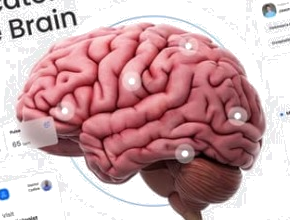
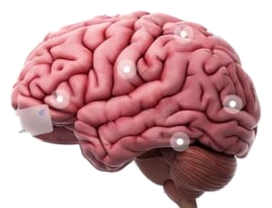
feat: isolate pure 3D organ visuals for brain, heart, lungs, and GI without surrounding cards

diff --git a/frontend/src/components/AnatomyMap.tsx b/frontend/src/components/AnatomyMap.tsx
@@ -28,32 +28,32 @@ const BODY_HOTSPOTS = [
 ];
 
 const REAL_BRAIN_HOTSPOTS: OrganHotspot[] = [
-  { id: "throbbing_headache", name: "Throbbing Headache", topPercent: 32, leftPercent: 44, regionId: "neuro", anatomicalLabel: "Frontal / Parietal Cortex" },
-  { id: "visual_aura_photophobia", name: "Visual Aura & Photophobia", topPercent: 42, leftPercent: 72, regionId: "neuro", anatomicalLabel: "Occipital Visual Lobe" },
-  { id: "dizziness_vertigo", name: "Dizziness & Vertigo", topPercent: 74, leftPercent: 62, regionId: "neuro", anatomicalLabel: "Cerebellum & Vestibular" },
-  { id: "blurred_vision", name: "Blurred Vision", topPercent: 48, leftPercent: 28, regionId: "neuro", anatomicalLabel: "Optic Nerve Pathways" },
-  { id: "insomnia", name: "Insomnia & Neural Fog", topPercent: 55, leftPercent: 52, regionId: "neuro", anatomicalLabel: "Temporal Subcortex" },
+  { id: "throbbing_headache", name: "Throbbing Headache", topPercent: 28, leftPercent: 45, regionId: "neuro", anatomicalLabel: "Frontal / Parietal Cortex" },
+  { id: "visual_aura_photophobia", name: "Visual Aura & Photophobia", topPercent: 40, leftPercent: 78, regionId: "neuro", anatomicalLabel: "Occipital Visual Lobe" },
+  { id: "dizziness_vertigo", name: "Dizziness & Vertigo", topPercent: 76, leftPercent: 68, regionId: "neuro", anatomicalLabel: "Cerebellum & Brainstem" },
+  { id: "blurred_vision", name: "Blurred Vision", topPercent: 52, leftPercent: 24, regionId: "neuro", anatomicalLabel: "Optic Chiasm / Temporal" },
+  { id: "insomnia", name: "Insomnia & Neural Fog", topPercent: 48, leftPercent: 50, regionId: "neuro", anatomicalLabel: "Temporal Subcortex" },
 ];
 
 const REAL_HEART_HOTSPOTS: OrganHotspot[] = [
-  { id: "sharp_chest_pain", name: "Sharp Chest Pain", topPercent: 68, leftPercent: 52, regionId: "cardio_lung", anatomicalLabel: "Myocardial Apex / Ventricle" },
-  { id: "chest_tightness_angina", name: "Chest Tightness / Angina", topPercent: 48, leftPercent: 62, regionId: "cardio_lung", anatomicalLabel: "Coronary Artery Branch" },
-  { id: "palpitations", name: "Palpitations & Arrhythmia", topPercent: 42, leftPercent: 36, regionId: "cardio_lung", anatomicalLabel: "Right Atrium / Sinus Node" },
-  { id: "shortness_of_breath", name: "Breathlessness on Exertion", topPercent: 25, leftPercent: 68, regionId: "cardio_lung", anatomicalLabel: "Ascending Aorta & Arch" },
+  { id: "sharp_chest_pain", name: "Sharp Chest Pain", topPercent: 72, leftPercent: 52, regionId: "cardio_lung", anatomicalLabel: "Myocardial Apex / Ventricle" },
+  { id: "chest_tightness_angina", name: "Chest Tightness / Angina", topPercent: 48, leftPercent: 66, regionId: "cardio_lung", anatomicalLabel: "Coronary Artery Branch" },
+  { id: "palpitations", name: "Palpitations & Arrhythmia", topPercent: 42, leftPercent: 32, regionId: "cardio_lung", anatomicalLabel: "Right Atrium / Sinus Node" },
+  { id: "shortness_of_breath", name: "Breathlessness on Exertion", topPercent: 18, leftPercent: 56, regionId: "cardio_lung", anatomicalLabel: "Ascending Aorta & Arch" },
 ];
 
 const REAL_LUNGS_HOTSPOTS: OrganHotspot[] = [
-  { id: "cough", name: "Persistent Cough / Tracheitis", topPercent: 18, leftPercent: 48, regionId: "cardio_lung", anatomicalLabel: "Trachea & Carina" },
-  { id: "shortness_of_breath", name: "Dyspnea / Air Hunger", topPercent: 46, leftPercent: 32, regionId: "cardio_lung", anatomicalLabel: "Right Pulmonary Lobe" },
-  { id: "sharp_chest_pain", name: "Pleuritic Pain", topPercent: 48, leftPercent: 68, regionId: "cardio_lung", anatomicalLabel: "Left Pleural Cavity" },
-  { id: "chest_tightness_angina", name: "Bronchial Wheezing", topPercent: 72, leftPercent: 38, regionId: "cardio_lung", anatomicalLabel: "Lower Basal Segment" },
+  { id: "cough", name: "Persistent Cough / Tracheitis", topPercent: 15, leftPercent: 49, regionId: "cardio_lung", anatomicalLabel: "Trachea & Carina" },
+  { id: "shortness_of_breath", name: "Dyspnea / Air Hunger", topPercent: 44, leftPercent: 30, regionId: "cardio_lung", anatomicalLabel: "Right Pulmonary Lobe" },
+  { id: "sharp_chest_pain", name: "Pleuritic Pain", topPercent: 46, leftPercent: 70, regionId: "cardio_lung", anatomicalLabel: "Left Pleural Cavity" },
+  { id: "chest_tightness_angina", name: "Bronchial Wheezing", topPercent: 74, leftPercent: 36, regionId: "cardio_lung", anatomicalLabel: "Lower Basal Segment" },
 ];
 
 const REAL_DIGESTIVE_HOTSPOTS: OrganHotspot[] = [
-  { id: "acid_reflux", name: "Acid Reflux / Heartburn", topPercent: 32, leftPercent: 50, regionId: "gi_endo", anatomicalLabel: "Gastroesophageal Junction" },
-  { id: "nausea_vomiting", name: "Nausea & Gastric Stasis", topPercent: 52, leftPercent: 42, regionId: "gi_endo", anatomicalLabel: "Gastric Body" },
-  { id: "excessive_hunger", name: "Polyphagia / Metabolic", topPercent: 54, leftPercent: 60, regionId: "gi_endo", anatomicalLabel: "Pancreatic Region" },
-  { id: "abdominal_pain", name: "Abdominal Pain", topPercent: 75, leftPercent: 50, regionId: "gi_endo", anatomicalLabel: "Intestinal Peristalsis" },
+  { id: "acid_reflux", name: "Acid Reflux / Heartburn", topPercent: 24, leftPercent: 54, regionId: "gi_endo", anatomicalLabel: "Gastroesophageal Junction" },
+  { id: "nausea_vomiting", name: "Nausea & Gastric Stasis", topPercent: 44, leftPercent: 56, regionId: "gi_endo", anatomicalLabel: "Gastric Body" },
+  { id: "excessive_hunger", name: "Hepatic / Metabolic", topPercent: 32, leftPercent: 34, regionId: "gi_endo", anatomicalLabel: "Hepatic Lobe" },
+  { id: "abdominal_pain", name: "Abdominal & Intestinal Cramping", topPercent: 74, leftPercent: 50, regionId: "gi_endo", anatomicalLabel: "Intestinal Peristalsis" },
 ];
 
 export const AnatomyMap: React.FC<AnatomyMapProps> = ({
@@ -217,7 +217,7 @@ export const AnatomyMap: React.FC<AnatomyMapProps> = ({
           <div className="relative w-full h-full flex items-center justify-center animate-fadeIn">
             <div className="absolute w-56 h-56 rounded-full bg-rose-500/15 blur-2xl pointer-events-none" />
 
-            <div className="relative w-64 h-56 flex items-center justify-center">
+            <div className="relative w-68 h-52 flex items-center justify-center">
               <img
                 src="/assets/real_brain.png"
                 alt="Realistic 3D Human Brain"
@@ -262,7 +262,7 @@ export const AnatomyMap: React.FC<AnatomyMapProps> = ({
           <div className="relative w-full h-full flex items-center justify-center animate-fadeIn">
             <div className="absolute w-56 h-56 rounded-full bg-red-600/15 blur-2xl pointer-events-none" />
 
-            <div className="relative w-64 h-60 flex items-center justify-center animate-pulse" style={{ animationDuration: "1.2s" }}>
+            <div className="relative w-48 h-64 flex items-center justify-center animate-pulse" style={{ animationDuration: "1.2s" }}>
               <img
                 src="/assets/real_heart.png"
                 alt="Realistic 3D Human Heart"
@@ -307,7 +307,7 @@ export const AnatomyMap: React.FC<AnatomyMapProps> = ({
           <div className="relative w-full h-full flex items-center justify-center animate-fadeIn">
             <div className="absolute w-56 h-56 rounded-full bg-rose-500/15 blur-2xl pointer-events-none" />
 
-            <div className="relative w-64 h-64 flex items-center justify-center">
+            <div className="relative w-60 h-68 flex items-center justify-center">
               <img
                 src="/assets/real_lungs.png"
                 alt="Realistic 3D Human Lungs"
@@ -350,57 +350,13 @@ export const AnatomyMap: React.FC<AnatomyMapProps> = ({
         {/* ------------------- VIEW 5: REALISTIC 3D DIGESTIVE / METABOLIC ------------------- */}
         {viewMode === "digestive" && (
           <div className="relative w-full h-full flex items-center justify-center animate-fadeIn">
-            <svg
-              viewBox="0 0 240 220"
-              className="w-56 h-52 drop-shadow-[0_15px_30px_rgba(234,179,8,0.2)]"
-            >
-              <defs>
-                <radialGradient id="stomachGrad" cx="45%" cy="40%" r="55%">
-                  <stop offset="0%" stopColor="#fde047" />
-                  <stop offset="40%" stopColor="#ca8a04" />
-                  <stop offset="85%" stopColor="#854d0e" />
-                  <stop offset="100%" stopColor="#422006" />
-                </radialGradient>
-                <radialGradient id="liverGrad" cx="40%" cy="40%" r="60%">
-                  <stop offset="0%" stopColor="#b91c1c" />
-                  <stop offset="100%" stopColor="#450a0a" />
-                </radialGradient>
-              </defs>
+            <div className="absolute w-56 h-56 rounded-full bg-amber-500/15 blur-2xl pointer-events-none" />
 
-              <rect x="120" y="15" width="12" height="55" rx="5" fill="#ca8a04" stroke="#a16207" strokeWidth="1.5" />
-
-              <path
-                d="M 60 70 C 85 55, 130 58, 145 75 C 135 95, 95 105, 65 95 Z"
-                fill="url(#liverGrad)"
-                stroke="#f87171"
-                strokeWidth="1.2"
-                opacity="0.8"
-              />
-
-              <path
-                d="M 125 65 
-                   C 105 65, 80 85, 85 115 
-                   C 90 145, 125 155, 150 140 
-                   C 165 125, 155 100, 140 95 
-                   C 135 85, 132 75, 125 65 Z"
-                fill="url(#stomachGrad)"
-                stroke="#fef08a"
-                strokeWidth="2"
-              />
-
-              <path
-                d="M 95 150 Q 120 160 145 150 Q 155 170 135 180 Q 115 170 95 180 Q 85 195 115 205 Q 145 200 155 185"
-                stroke="#a16207"
-                strokeWidth="7"
-                strokeLinecap="round"
-                fill="none"
-              />
-              <path
-                d="M 95 150 Q 120 160 145 150 Q 155 170 135 180 Q 115 170 95 180 Q 85 195 115 205 Q 145 200 155 185"
-                stroke="#fef08a"
-                strokeWidth="2"
-                strokeLinecap="round"
-                fill="none"
+            <div className="relative w-60 h-68 flex items-center justify-center">
+              <img
+                src="/assets/real_digestive.png"
+                alt="Realistic 3D Gastrointestinal & Hepatic System"
+                className="max-h-full max-w-full object-contain filter drop-shadow-[0_15px_30px_rgba(245,158,11,0.35)] transition-transform duration-700 hover:scale-105"
               />
 
               {REAL_DIGESTIVE_HOTSPOTS.map((spot) => {
@@ -432,7 +388,7 @@ export const AnatomyMap: React.FC<AnatomyMapProps> = ({
                   </button>
                 );
               })}
-            </svg>
+            </div>
           </div>
         )}
       </div>
